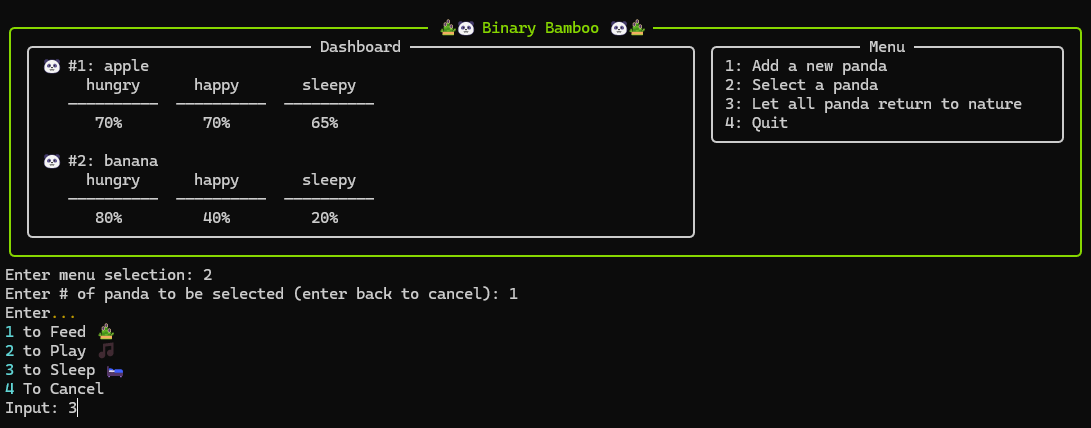
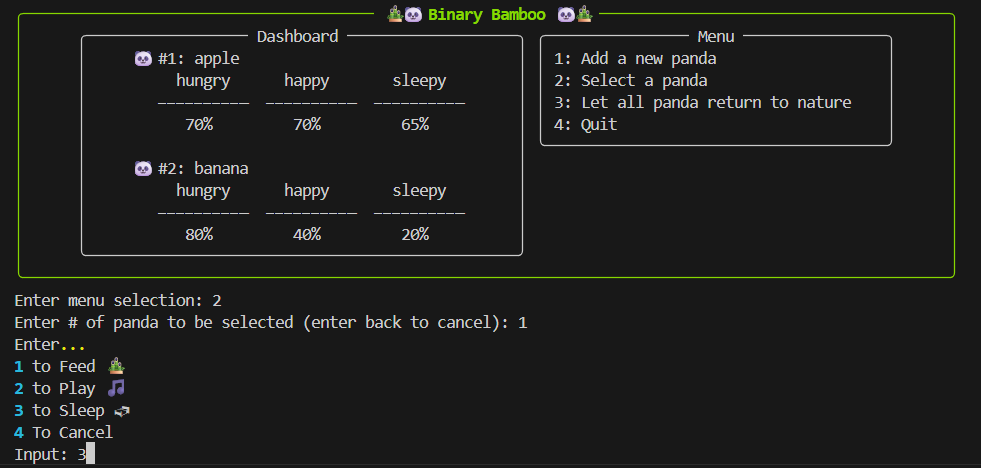
minor refactor & testing

diff --git a/services/event-processor/src/index.ts b/services/event-processor/src/index.ts
@@ -62,10 +62,9 @@ const startEventProcessor = async () => {
 
 process.on("SIGINT", async () => {
     console.log("Shutting down server 2...");
-    // Todo: Test these
     await shutdownProducer();
     await shutdownPetEventsConsumer();
-    console.log("Server 2 shutdown complete.")
+    console.log("Server 2 shutdown complete.");
     process.exit(0);
 });
 

diff --git a/client/src/ui.py b/client/src/ui.py
@@ -11,7 +11,7 @@ def update_dashboard(pets):
     if not pets:
         dashboard_content = Align.center("No pandas...", vertical="middle")
         return Panel(
-            dashboard_content, title="Dashboard", box=box.ROUNDED, width=75, height=6
+            dashboard_content, title="Dashboard", box=box.ROUNDED, width=50, height=6
         )
 
     dashboard_content = ""
@@ -24,7 +24,7 @@ def update_dashboard(pets):
         content += f"   {f"{state['hungry']}%":^10}  {f"{state['happy']}%":^10}  {f"{state['sleepy']}%":^10}\n"
         dashboard_content += header + content
     dashboard_content = dashboard_content[1:-2]
-    return Panel(dashboard_content, title="Dashboard", box=box.ROUNDED, width=75)
+    return Panel(Align.center(dashboard_content), title="Dashboard", box=box.ROUNDED, width=50)
 
 
 def update_main_ui(pets):
@@ -44,7 +44,7 @@ def update_main_ui(pets):
         title=welcome_message,
         box=box.ROUNDED,
         border_style="chartreuse2",
-        width=120,
+        width=105,
     )
     console.print(main_ui)
     return console

diff --git a/client/src/apis.py b/client/src/apis.py
@@ -26,6 +26,7 @@ def postNewEvent(id, event):
 def getAllPetData():
     try:
         res = requests.get(endpoint)
+
         return res
     except Exception as e:
         print(f"Client error: {e}")

diff --git a/README.md b/README.md
@@ -41,9 +41,9 @@ cd client
 pip install -r requirements.txt
 ```
 
-And run the CLI.
+And run the CLI:
 ```bash
-python main.py
+python src/main.py
 ```
 
 ### Server
@@ -68,9 +68,9 @@ npm run dev
     - Contains Terminal UI application
 2. `/services`
     - Contains 3 servers and dependency directory
-    1. `/api`: API Gateway
-    2. `/event-processor`: Event processor; logic for event -> state
-    3. `/db-writer`: Database writer to Redis
+    - `/api`: API Gateway
+    - `/event-processor`: Event processor; logic for event -> state
+    - `/db-writer`: Database writer to Redis
     - `/libs`: Dependencies
         1. `/interfaces`: Contains interfaces
         2. `/kafka`: Contains Kafka operations
@@ -93,9 +93,9 @@ Placed in `/server/api` directory.
 
 ## Todo
 - [ ] Create `Architecture.md`
-- [ ] Adjust UI width
-- [ ] Refactor client folder structure - create src directory
-- [ ] Fully test shutdown logic for Kafka
+- [x] Adjust UI width
+- [x] Refactor client folder structure - create src directory
+- [x] Fully test shutdown logic for Kafka
 
 
 ## Contact
